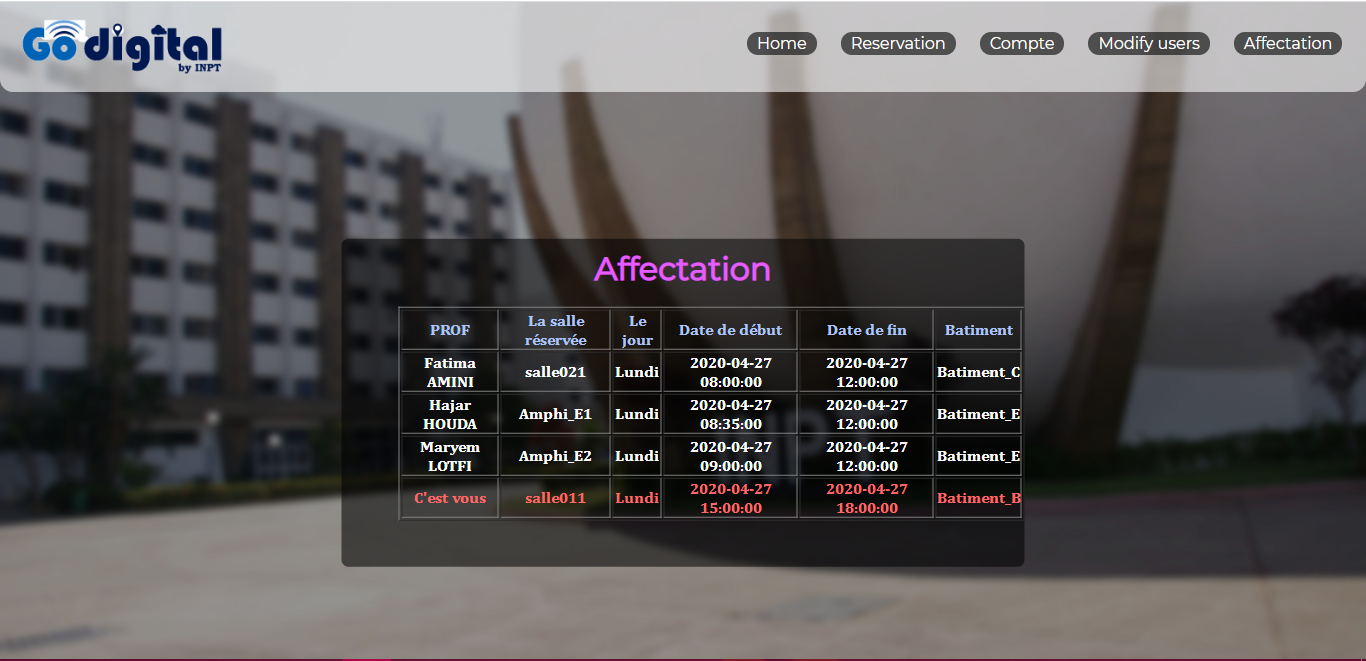
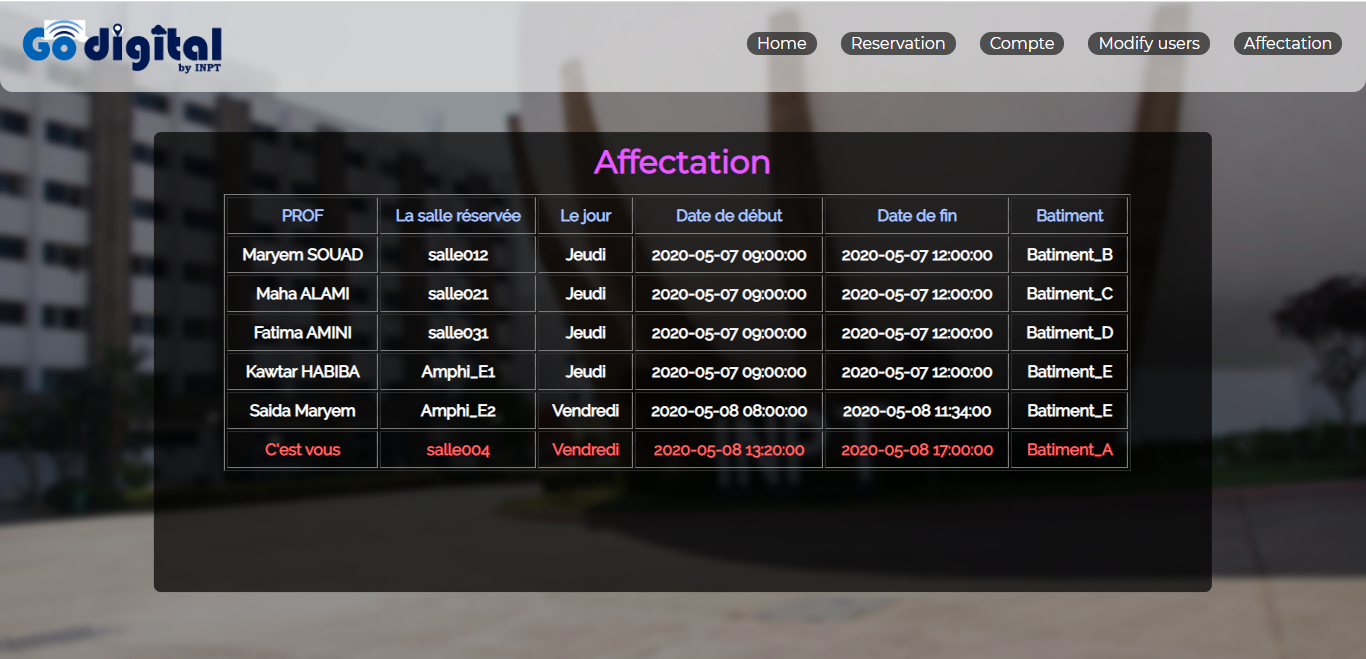
affectation style

diff --git a/code/affectation.php b/code/affectation.php
@@ -34,6 +34,7 @@ if(isset($_SESSION['last_action'])){
     <meta charset="UTF-8">
     <meta name="viewport" content="width=device-width, initial-scale=1.0">
     <link rel="stylesheet" href="css/affectation.css">
+    <link href="https://fonts.googleapis.com/css2?family=Jost&family=Raleway&display=swap" rel="stylesheet">
     <title>affectation</title>
 </head>
 <img src="img/Go.png" alt="" height="70" width="260" id="go">
@@ -50,13 +51,21 @@ if(isset($_SESSION['last_action'])){
 <style>
 table{
     position:relative;
-    top:10px;
-    left:3px
+    top:13px;
+    left:1.6cm;
+    width:24cm;
+    font-family: 'Raleway', sans-serif;
+    font-size: 16px;
+}
+td,th{
+    padding:8px 12px 8px 12px;
 }
 .box{
     position:relative;
     top:270px;
     height:70%;
+    width:28cm;
+    background-color:rgb(0,0,0,0.7);
 }
 </style>
 
